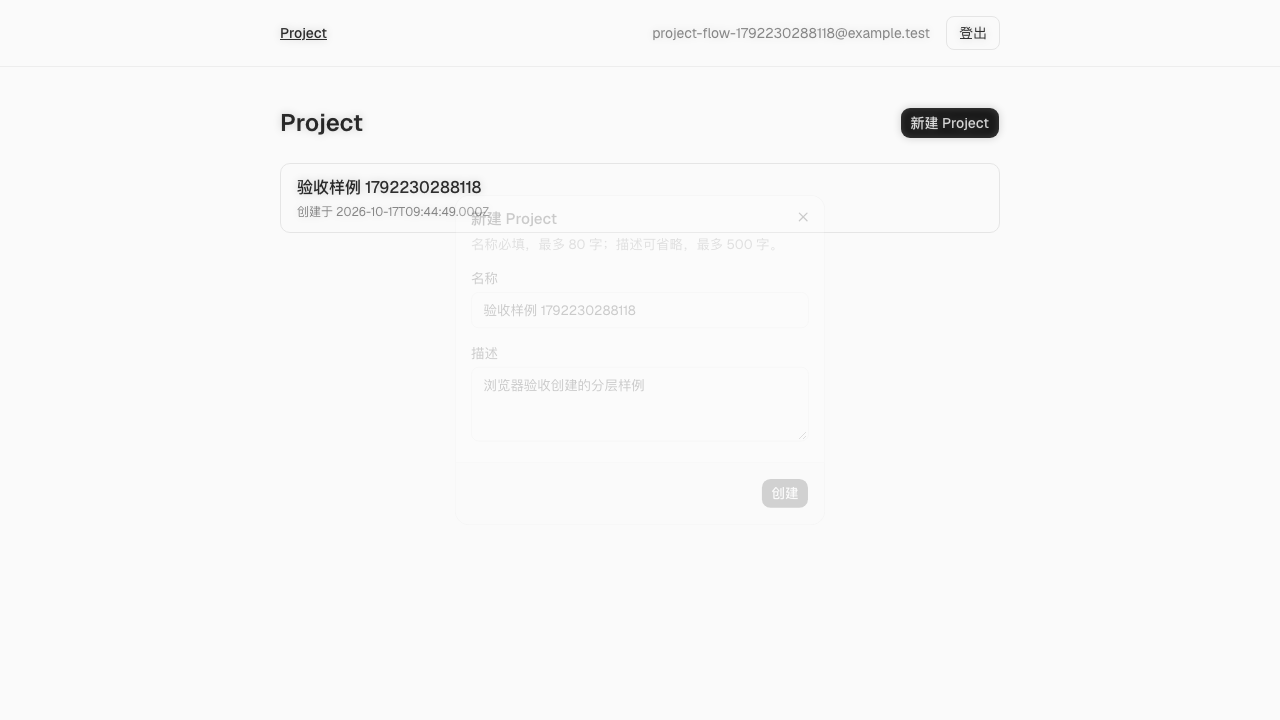
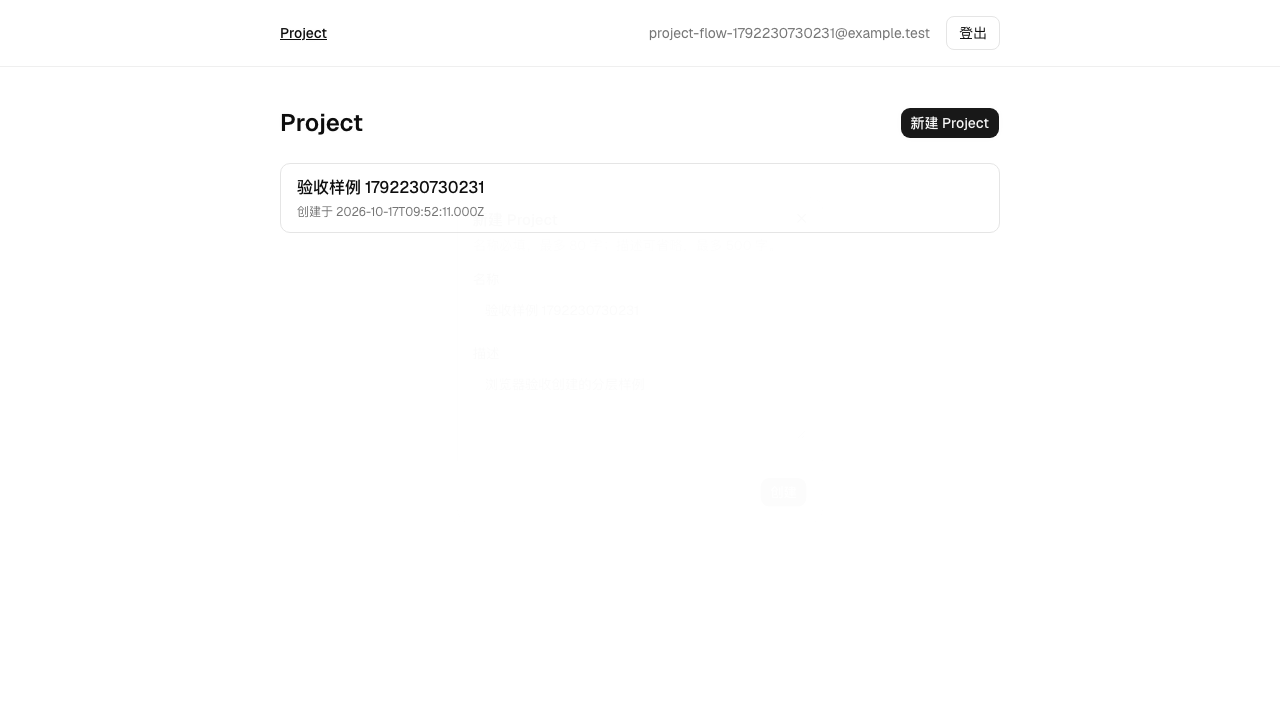
test(browser): assert the requestId matches across payload, header and diagnostics
空名提交的检查现在同时比对页面载荷里的 requestId、server function 响应的
x-sprout-request-id 头，以及用该 id 调 /api/diagnostics 查回的诊断行。
截图随最新一次 Chromium 运行更新。

diff --git a/docs/p1/feature-sample.md b/docs/p1/feature-sample.md
@@ -71,13 +71,13 @@ PASS 生产进程 SIGTERM 退出 {"code":0,"signal":null}
 PASS register_sets_session :: 注册后经首页落到 /projects
 PASS sign_out_returns_to_login :: 登出后落到 /login
 PASS login_opens_protected_area :: 登录后经首页落到 /projects，列表为空
-PASS create_project_appears_in_list :: 列表包含 ["验收样例 1792229942843"]
-PASS open_detail_shows_fields_and_request_id :: 详情 {"name":"验收样例 1792229942843","description":"浏览器验收创建的分层样例","createdAt":"2026-10-17T09:39:04.000Z","requestId":"req_60bfd397-dd3f-4418-8cce-0a108e5304f5","path":"/projects/prj_d9439a92-a2ca-4bba-a07a-ba5b805ea480"}
-PASS reload_keeps_same_project :: 刷新后仍是 验收样例 1792229942843，URL http://localhost:3141/projects/prj_d9439a92-a2ca-4bba-a07a-ba5b805ea480
-PASS history_back_and_forward_keep_target :: 后退到 /projects，前进回 /projects/prj_d9439a92-a2ca-4bba-a07a-ba5b805ea480
-PASS empty_name_shows_field_error_and_request_id :: 字段错误 "名称不能为空"，错误码与 requestId "validation_failed · req_1dd348a9-c118-460e-8a32-953d9637d68a"
+PASS create_project_appears_in_list :: 列表包含 ["验收样例 1792230730231"]
+PASS open_detail_shows_fields_and_request_id :: 详情 {"name":"验收样例 1792230730231","description":"浏览器验收创建的分层样例","createdAt":"2026-10-17T09:52:11.000Z","requestId":"req_a994dc9d-0397-4ea2-b864-36ffa8da9759","path":"/projects/prj_34e3096e-fa4c-4891-8d02-449c3731c598"}
+PASS reload_keeps_same_project :: 刷新后仍是 验收样例 1792230730231，URL http://localhost:3141/projects/prj_34e3096e-fa4c-4891-8d02-449c3731c598
+PASS history_back_and_forward_keep_target :: 后退到 /projects，前进回 /projects/prj_34e3096e-fa4c-4891-8d02-449c3731c598
+PASS empty_name_shows_field_error_and_request_id :: 字段错误 "名称不能为空"，页面 requestId req_38961afa-6b93-4325-b910-990a33d1ba7f、响应头 req_38961afa-6b93-4325-b910-990a33d1ba7f 与诊断行一致
 PASS long_description_shows_field_error :: 描述字段错误 "描述最多 500 字"
-PASS missing_project_shows_not_found :: 不存在的 id 显示 {"message":"Project 不存在","meta":"not_found · req_d05f67e0-b2a6-48b5-bac1-4567f07d5757"}
+PASS missing_project_shows_not_found :: 不存在的 id 显示 {"message":"Project 不存在","meta":"not_found · req_28730c3a-54c5-41f2-a9e7-632aa732dd6f"}
 PASS signed_out_visit_redirects_to_login :: /projects 落到 /login
 PASS no_console_errors :: 无 console.error 与未捕获异常
 browser checks: 12/12 passed
@@ -101,7 +101,7 @@ browser checks: 12/12 passed
 - 同一测试用 `createProject(..., { afterProjectInsert: () => { throw } })` 触发强制失败，断言 `project` 与 `diagnostic_event` 计数与失败前完全一致，即两行都没有留下。
 - 边界级断言覆盖：空名称与 501 字描述返回 `validation_failed` 且 `fieldErrors` 恰好为 `name`、`description`；无会话返回 `unauthorized`；不存在的 id 返回 `not_found`。三种失败的 `requestId` 都是传入的当前请求值。
 - `scripts/verify/e-project.sh` 在真实 HTTP 上重复了同样的路径：creator 的响应头 requestId 与 `/api/diagnostics?requestId=` 查回的 `project.created` 行一致，且该行的 `projectId` 等于创建载荷中的 `prj_*`；校验失败载荷不含 `prj_`，证明失败请求没有写业务行。
-- 浏览器流程用页面上的 requestId 与错误码做断言，空名失败显示 `validation_failed` 与 `req_*`，不存在的 id 显示 `not_found` 与 `req_*`。
+- 浏览器流程在同一次空名提交里比对三处 requestId：页面错误载荷显示的 `req_*`、server function 响应的 `x-sprout-request-id` 头，以及用该 id 调 `/api/diagnostics` 查回的诊断行（`http.response`），三者相等。不存在的 id 显示 `not_found` 与当前请求的 `req_*`。
 
 ## 未验证项
 
